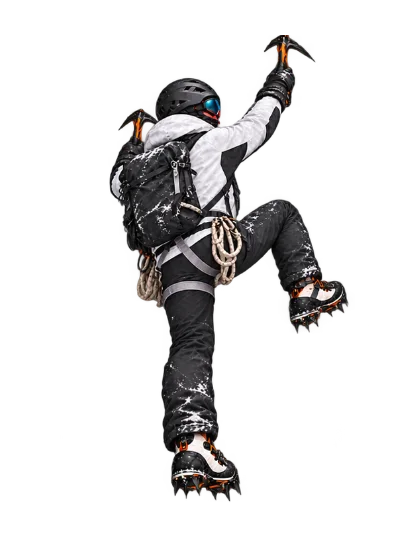
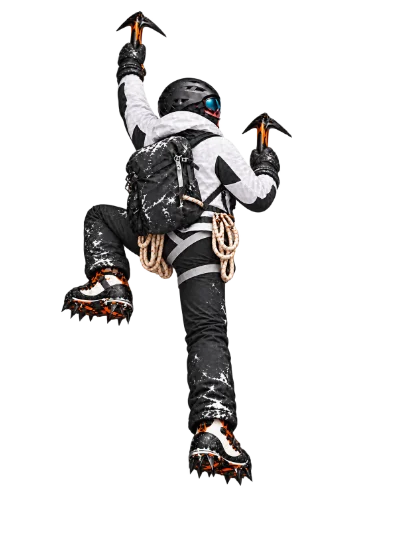
Rebuild Ascent climb with alternating full-body poses

Changed region(s): [[0.15, 0.0, 0.87, 0.9306]]

diff --git a/assets/js/expedition.js b/assets/js/expedition.js
@@ -15,12 +15,14 @@
   const contact = root.querySelector('[data-expedition-contact]');
   const climber = root.querySelector('[data-expedition-climber]');
   const primaryFrame = climber.querySelector('[data-climber-frame-primary]');
+  const nextFrame = climber.querySelector('[data-climber-frame-next]');
   const firstFrameUrl = primaryFrame.getAttribute('href');
-  const frameUrls = Array.from({ length: 16 }, (_, index) =>
+  const frameUrls = Array.from({ length: 10 }, (_, index) =>
     firstFrameUrl.replace(/01\.webp/, `${String(index + 1).padStart(2, '0')}.webp`));
   // Every complete-body image is registered to the same goggle position at
-  // export time, so runtime pose changes need no per-limb or per-frame shifts.
-  // Warm the remaining poses after the first page paint. Fetching all 16 at
+  // export time. The two whole-body images blend between neighboring poses;
+  // there are no separately animated limbs or per-pose transforms.
+  // Warm the remaining poses after the first page paint. Fetching all poses at
   // startup competed with the mountain's first paint on mobile. Any deliberate
   // wheel/touch interaction starts preloading sooner.
   const frameCache = [];
@@ -121,10 +123,18 @@
     contact.setAttribute('cx', (point.x + 56).toFixed(2));
     contact.setAttribute('cy', (point.y + 69).toFixed(2));
     completed.style.strokeDashoffset = String(totalLength * (1 - fraction));
-    const pose = motion.matches ? 0 : ((current % 1) + 1) % 1 * frameUrls.length;
-    const frameIndex = Math.floor(pose);
+    // A full right/left stepping cycle spans two entries. The previous cycle
+    // raced through every pose during a single moderate wheel gesture.
+    const pose = motion.matches ? 0 : current * frameUrls.length / 2;
+    const frameIndex = Math.floor(pose) % frameUrls.length;
+    const nextIndex = (frameIndex + 1) % frameUrls.length;
+    const blend = motion.matches ? 0 : ease(pose - Math.floor(pose));
     if (primaryFrame.getAttribute('href') !== frameUrls[frameIndex])
       primaryFrame.setAttribute('href', frameUrls[frameIndex]);
+    if (nextFrame.getAttribute('href') !== frameUrls[nextIndex])
+      nextFrame.setAttribute('href', frameUrls[nextIndex]);
+    primaryFrame.setAttribute('opacity', (1 - blend).toFixed(3));
+    nextFrame.setAttribute('opacity', blend.toFixed(3));
     climber.setAttribute('transform', `translate(${(point.x + 45).toFixed(2)} ${(point.y + 65).toFixed(2)}) scale(1.65)`);
     position.textContent = String(Math.min(stages + 1, Math.floor(current) + 1)).padStart(2, '0');
     const nearest = Math.round(current);

diff --git a/_includes/expedition.html b/_includes/expedition.html
@@ -22,7 +22,8 @@
         <ellipse class="expedition-contact-shadow" data-expedition-contact rx="17" ry="5" filter="url(#expedition-contact-blur)" />
         <g class="expedition-climber" data-expedition-climber>
           <svg x="-54" y="-106" width="88" height="117" viewBox="0 0 400 533" overflow="visible">
-            <image data-climber-frame-primary href="{{ '/assets/media/ascent-climber-frame-01.webp' | relative_url }}?v=ascent-12" width="400" height="533" />
+            <image data-climber-frame-primary href="{{ '/assets/media/ascent-climber-frame-01.webp' | relative_url }}?v=ascent-13" width="400" height="533" />
+            <image data-climber-frame-next href="{{ '/assets/media/ascent-climber-frame-02.webp' | relative_url }}?v=ascent-13" width="400" height="533" opacity="0" />
           </svg>
         </g>
       </g>

diff --git a/_layouts/default.html b/_layouts/default.html
@@ -19,7 +19,7 @@
   <script src="{{ '/assets/js/site.js' | relative_url }}" defer></script>
   <script src="{{ '/assets/js/experience.js' | relative_url }}" defer></script>
   <script src="{{ '/assets/js/contact.js' | relative_url }}" defer></script>
-  {% if page.url == '/journey/' %}<script src="{{ '/assets/js/expedition.js' | relative_url }}?v=ascent-12" defer></script>{% endif %}
+  {% if page.url == '/journey/' %}<script src="{{ '/assets/js/expedition.js' | relative_url }}?v=ascent-13" defer></script>{% endif %}
 </head>
 <body data-baseurl="{{ site.baseurl }}">
   {% include header.html %}

diff --git a/PROJECT_STATUS.md b/PROJECT_STATUS.md
@@ -4,7 +4,7 @@ Updated: October 12, 2026 (America/Los_Angeles).
 
 ## Current state
 
-**The approved site design remains intact. The dedicated Ascent uses 16 complete black-and-white mountaineer poses, now all viewed from the same right-facing rear-three-quarter angle.** Each image contains the whole body and gear, including both legs and boots; the old hinge-based artwork is no longer used. The self-service Markdown workflow, original content, four navigation destinations, existing links and approved page structure remain intact. Earlier Firefox/WebKit results predate this latest refinement; their executables are unavailable in this environment. Nothing has been pushed, merged or deployed.
+**The approved site design remains intact. The dedicated Ascent now uses ten sequentially edited, complete black-and-white mountaineer poses with alternating footwork.** All are viewed from the same right-facing rear-three-quarter angle; each contains the whole body and gear, including both legs and boots. Neighboring whole poses blend as the viewer scrolls, and one climbing cycle spans two entries. The self-service Markdown workflow, original content, four navigation destinations, existing links and approved page structure remain intact. Earlier Firefox/WebKit results predate this latest refinement; their executables are unavailable in this environment. Nothing has been pushed, merged or deployed.
 
 - Active repository: `C:/Users/super/Documents/ChatGPT/portfolio website remodel/portfolio-v2`.
 - Branch: `codex/portfolio-v2`, based on `da50b14` (`main`).
@@ -13,7 +13,16 @@ Updated: October 12, 2026 (America/Los_Angeles).
 - Local preview: `http://127.0.0.1:4173/`, serving production `_site` output.
 - Parent workspace `PROJECT_STATUS.md` points here. This is the canonical handoff.
 
-## October 12 right-facing pose correction — latest handoff
+## October 12 ladder-reference gait rebuild — latest handoff
+
+- Completed: watched the user-supplied [climbing animation reference](https://www.youtube.com/watch?v=d-m-HuN-PkU) and adapted its steady-torso, alternating hand-and-foot rhythm to the existing right-facing mountaineer. Generated ten individual transparent whole-body drawings by successive edits, including a left-boot-high and a right-boot-high phase; no ladder is rendered. Replaced the former 16-pose sheet export with ten registered WebPs. The browser now blends two **complete** neighboring poses and advances one cycle over two entries rather than one. The Everest scene, page structure, posts, routes, content, navigation, and other site components were not changed. Removed obsolete source sheets and six unused WebPs; Git history retains them. Bumped Ascent assets to `ascent-13`.
+- Currently in progress: none after this change is committed. Manual real-device motion judgment remains before production.
+- Design/technical decisions: every PNG in `assets/img/ascent-climber-sequence/` is a complete edited figure; `npm run build:climber-frames` deterministically exports the optimized images. Runtime blends whole figures only—no hinged, stretched, or independently transformed arms or legs. A registered lens point holds the head steady. The video was a movement reference, not a copied asset. The pose cycle is intentionally restrained and slower. `docs/ASCENT_ART.md` records sources and the build process.
+- Known issues and limits: the sequence is a set of illustrated poses, not 30-fps footage or a physically constrained 3D climb. During very slow scrubbing, the blend may still reveal slight differences in painted clothing and tool positions; hand/boot contact with the specific ice wall remains illustrative. The previous art/source assets remain in Git history, and no ladder was added. Real phone/desktop motion review, Firefox/WebKit runners, branch-only Linux CI and actual custom-domain verification remain outstanding.
+- Testing performed: production Jekyll build; ten WebP decodes and body/boot checks; visual inspection of all ten source frames, the actual desktop wall scene, 20 intermediate scroll positions and a mobile light scene; focused Ascent Chrome test and complete Chrome suite (94 routes, 132 responsive pages, 22 axe scans, six interaction groups, 10 experience groups, 11 editorial groups, 10 Ascent groups); source/content integrity (26 original files unchanged, nine post routes, 47 HTML pages, 1,688 local references); JavaScript syntax and Git whitespace checks. Local `/journey/` responds HTTP 200 on port 4173.
+- **Exact recommended next task:** review the revised climber in the live `/journey/` preview on a real desktop and phone while scrolling slowly, moderately and in reverse. If painted-frame blending remains too visible, replace the pose sources with a single-model, professionally rendered full-body animation while preserving the whole-frame playback and approved site design. Then run Firefox/WebKit and branch-only Linux CI, verify custom-domain behavior, and only consider production merge after those checks and Aidan's approval.
+
+## October 12 right-facing pose correction — earlier handoff, superseded where noted above
 
 - Completed: replaced the three middle/end sprite sheets that had turned the character to a straight-back view or hidden a leg. All 16 shipped whole-body frames now use the same right-facing rear-three-quarter view as the user's third reference screenshot, with blue goggle profile visible, two separately drawn legs/boots and two ice tools directed at the wall to the right. Regenerated the WebPs, inspected a 16-pose contact sheet and a rendered `/journey/` desktop scene, and bumped the site assets to `ascent-12`. No background, page layout, content, routes or other site component changed.
 - Currently in progress: none after this correction is committed; real-device review remains before production.

diff --git a/docs/ASCENT_ART.md b/docs/ASCENT_ART.md
@@ -9,9 +9,8 @@ The mountain backdrop, close ice wall and climber poses are original generated i
 - Foreground source: `assets/img/ascent-icewall-illustration.png`; responsive alpha WebP: `assets/media/ascent-icewall-800.webp` and `ascent-icewall-480.webp`, with `ascent-icewall-480.avif` on supported mobile browsers.
 - Earlier orange climber source: `assets/img/ascent-climber-frames.png`; its first transparent pose remains at `assets/media/ascent-climber-01.webp` for provenance, but is no longer loaded by the page. That sheet did not provide the current black-and-white frame sequence.
 - Earlier black-and-white climber source: `assets/img/ascent-climber-alpine.png` (1086 × 1448, transparent); optimized single pose: `assets/media/ascent-climber-alpine.webp`. It informed the current clothing, gear and view angle. The hinged raster-limb rig that cut up this painting was removed after it repeatedly produced broken-looking joints.
-- Current animation sources: four newly generated transparent 2 × 2 sheets, `assets/img/ascent-climber-clean-right.png`, `ascent-climber-clean-crossover-left.png`, `ascent-climber-clean-left.png`, and `ascent-climber-clean-crossover-right.png`. Every panel is an independently drawn **complete figure** with its own torso, arms, legs, boots, tools and gear. The former six pose sources were removed after the clean-sheet redraw; Git history retains them. `npm run build:climber-frames` selects and orders 16 complete poses, aligns each by its blue goggle lens, removes tiny disconnected crop artifacts, and exports `assets/media/ascent-climber-frame-01.webp` through `-16.webp` (400 × 533). `node scripts/preview_climber_frames.cjs` writes an inspection contact sheet to `test-results/`.
-- October 12 right-profile correction: replaced the crossover-left, left-leading, and crossover-right sheets after browser screenshots revealed straight-back poses and a hidden leg. All 16 current frames retain the right-facing rear-three-quarter camera view established by the right-leading sheet. Both legs and crampon boots are visible in every frame, and the ice-axe pick ends face the wall on the right. The rendered asset/script URL is `ascent-12`. The pose sequence remains an illustration with discrete frames; a more physically faithful alternating-foot cycle would need dedicated character animation rather than further swapping independently generated stills.
-- The site warms the remaining 15 WebPs after the first page paint or on the viewer's first scroll interaction, and shows exactly one complete pose at a time. Arms, legs, jacket and gear are never independently rotated or resized. A two-image crossfade was previously rejected because it made the climber translucent and duplicated tools/feet; an optical-flow intermediate produced broken extra legs. The scene's route/camera update continuously, while the artwork remains 16 discrete poses per entry rather than a filmed or physically simulated climb. Reduced-motion holds the first pose. The outfit is unbranded black-and-white alpine technical gear.
+- Current animation sources: ten individual transparent **complete figure** drawings in `assets/img/ascent-climber-sequence/pose-01.png` through `pose-10.png`. Each successive drawing was edited from a preceding whole pose, retaining the right-facing rear-three-quarter character and right-facing tools. The gait takes its restrained alternating hand/foot rhythm from the user-supplied [ladder-climbing animation reference](https://www.youtube.com/watch?v=d-m-HuN-PkU); no ladder appears on the site. Both legs and crampon boots are visible in every image. Earlier 2 × 2 sprite sheets are preserved in Git history. `npm run build:climber-frames` aligns the goggles and exports ten 400 × 533 WebPs. `node scripts/preview_climber_frames.cjs` and `node scripts/preview_climber_motion.cjs` produce visual QA contact sheets in `test-results/`.
+- The ten whole-body poses now span **two** journal entries instead of one; moderate scrolling no longer races through an entire cycle. Two complete images blend between adjacent poses to soften each handover. No separate arms, legs, jacket panels or gear are rotated or resized. A crossfade was rejected with the former divergent pose sheets because it doubled tools and feet; the new registered sequential drawings were visually checked in the actual scene at 20 intermediate scroll positions, where that artifact is substantially less visible. This remains an illustrated sequence, not a filmed or physically simulated climb. Reduced-motion holds the first pose. The outfit is unbranded black-and-white alpine technical gear. Asset/script URL version: `ascent-13`.
 - The Home identity section reuses the existing Everest illustration through its 800 px WebP derivative. No new mountain asset was generated.
 
 Movement references: [Petzl's ice-climbing technique video](https://www.petzl.com/int/en/sport/tech-tips/basic-techniques/ice-climbing-technique---the-basics/Cascade-gestuelle_SPO_a771r000000PFoJAAW.html), [Petzl's Ice Climbing Basics access book](https://s3.amazonaws.com/Petzl_home_Prod/Accessbook/ACCESSBOOK-ICE-CLIMBING-EN-2018.pdf), and [REI's ice-climbing guidance](https://www.rei.com/learn/expert-advice/ice-climbing-waterfalls-alpine-walls.html) emphasize stable tool/foot placements and rising through the legs. These sources informed the illustration's rhythm; the individual drawn poses are not climbing instruction or a physical simulation.
